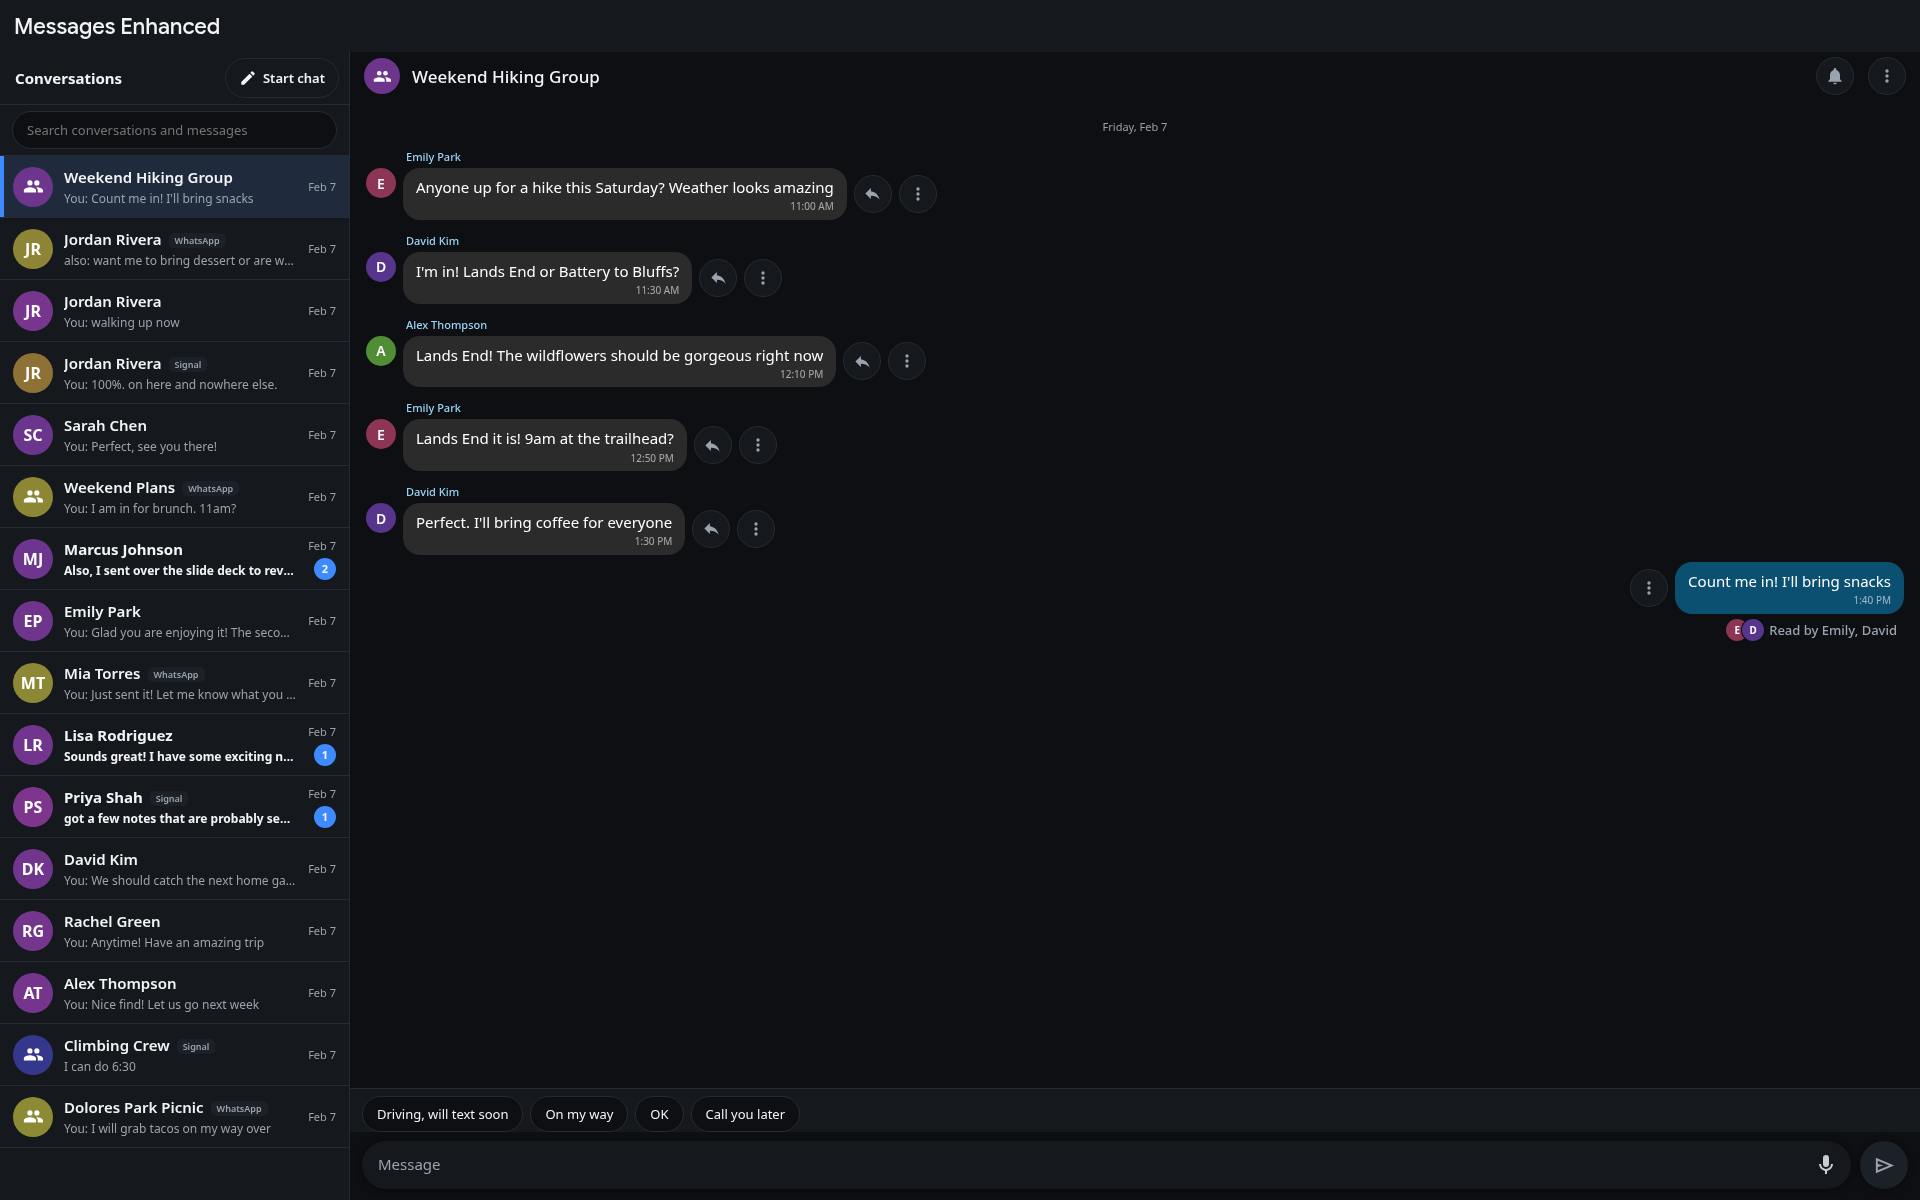
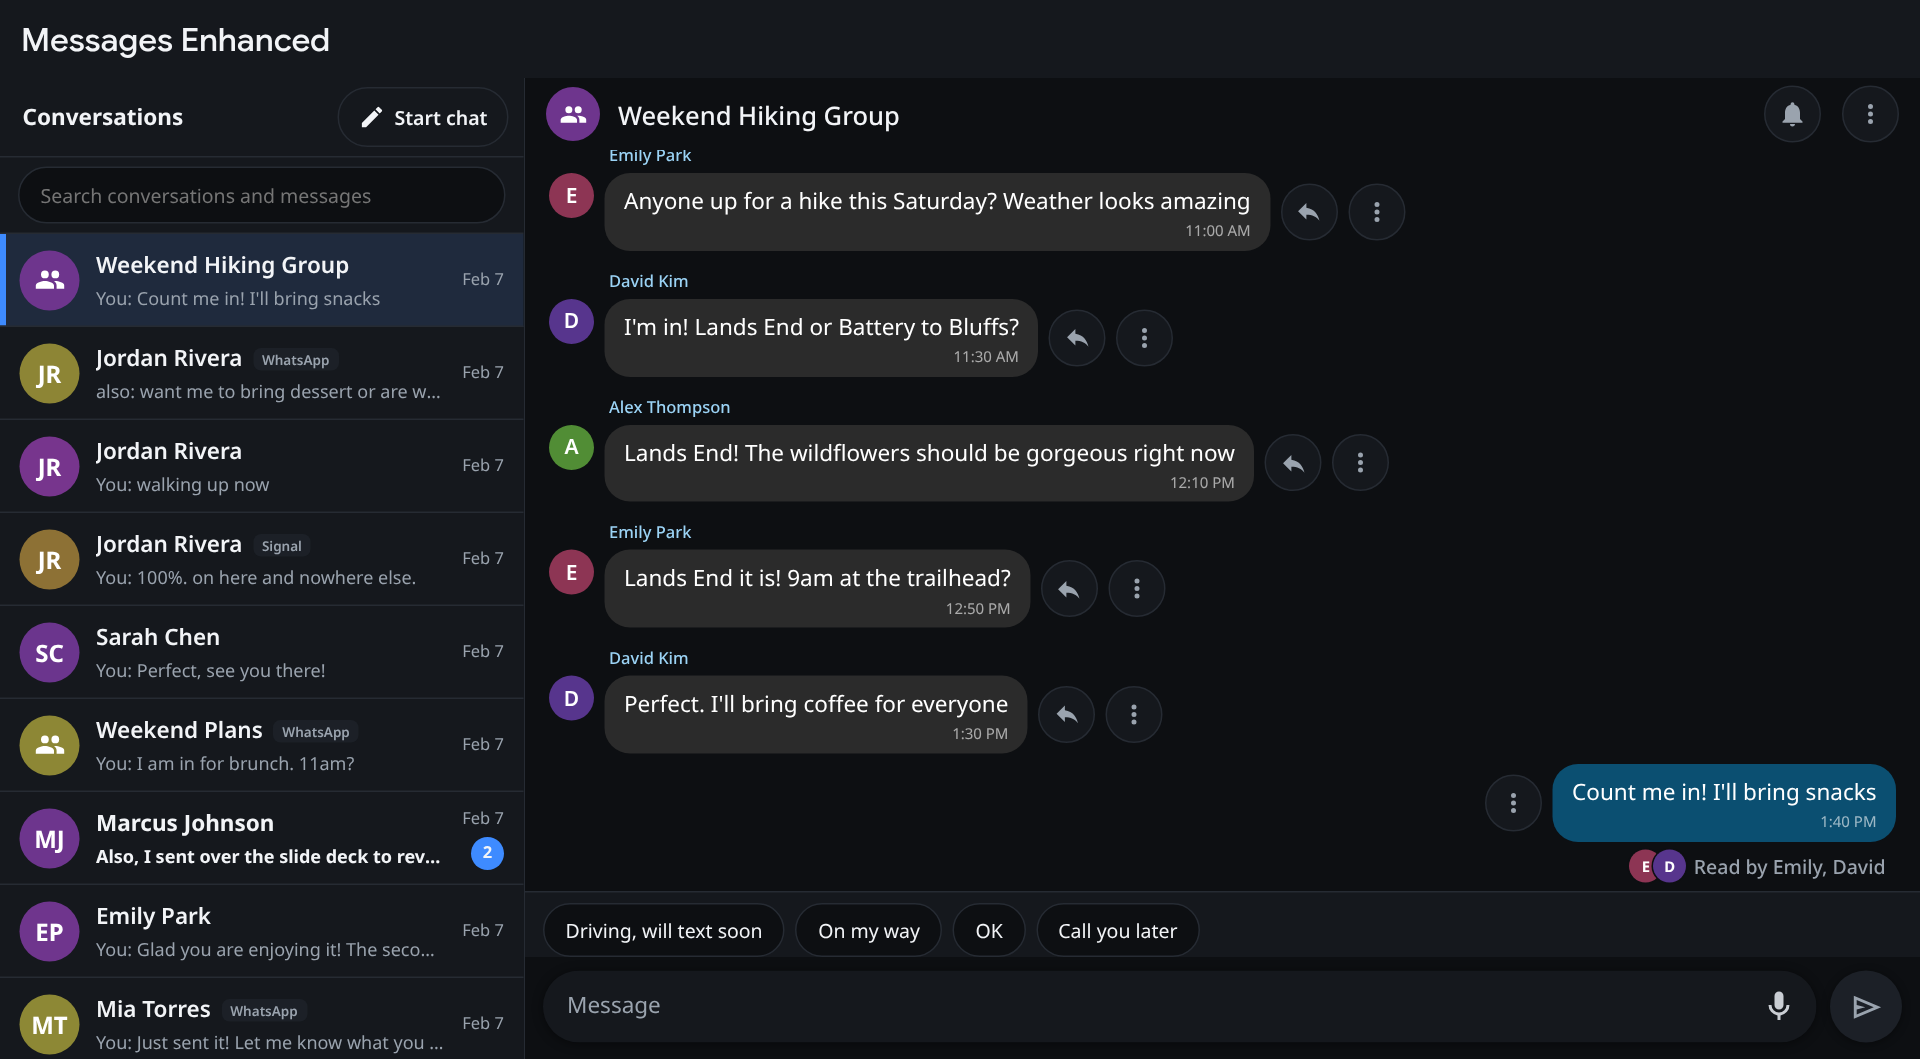
README: Car Mode screenshot at the Tesla browser's real scale (1280x706 CSS px @1.5x)

diff --git a/README.md b/README.md
@@ -23,7 +23,7 @@ messages are made up.
 
 ![Desktop layout](docs/screenshots/desktop.png)
 
-**Car Mode** (1920×1200, attachment and emoji buttons turned off in Settings)
+**Car Mode** (Tesla screen scale: 1920×1200 display, browser viewport 1280×706 CSS px at 1.5× pixel ratio; attachment and emoji buttons turned off in Settings)
 
 ![Car Mode](docs/screenshots/car-mode.png)
 
